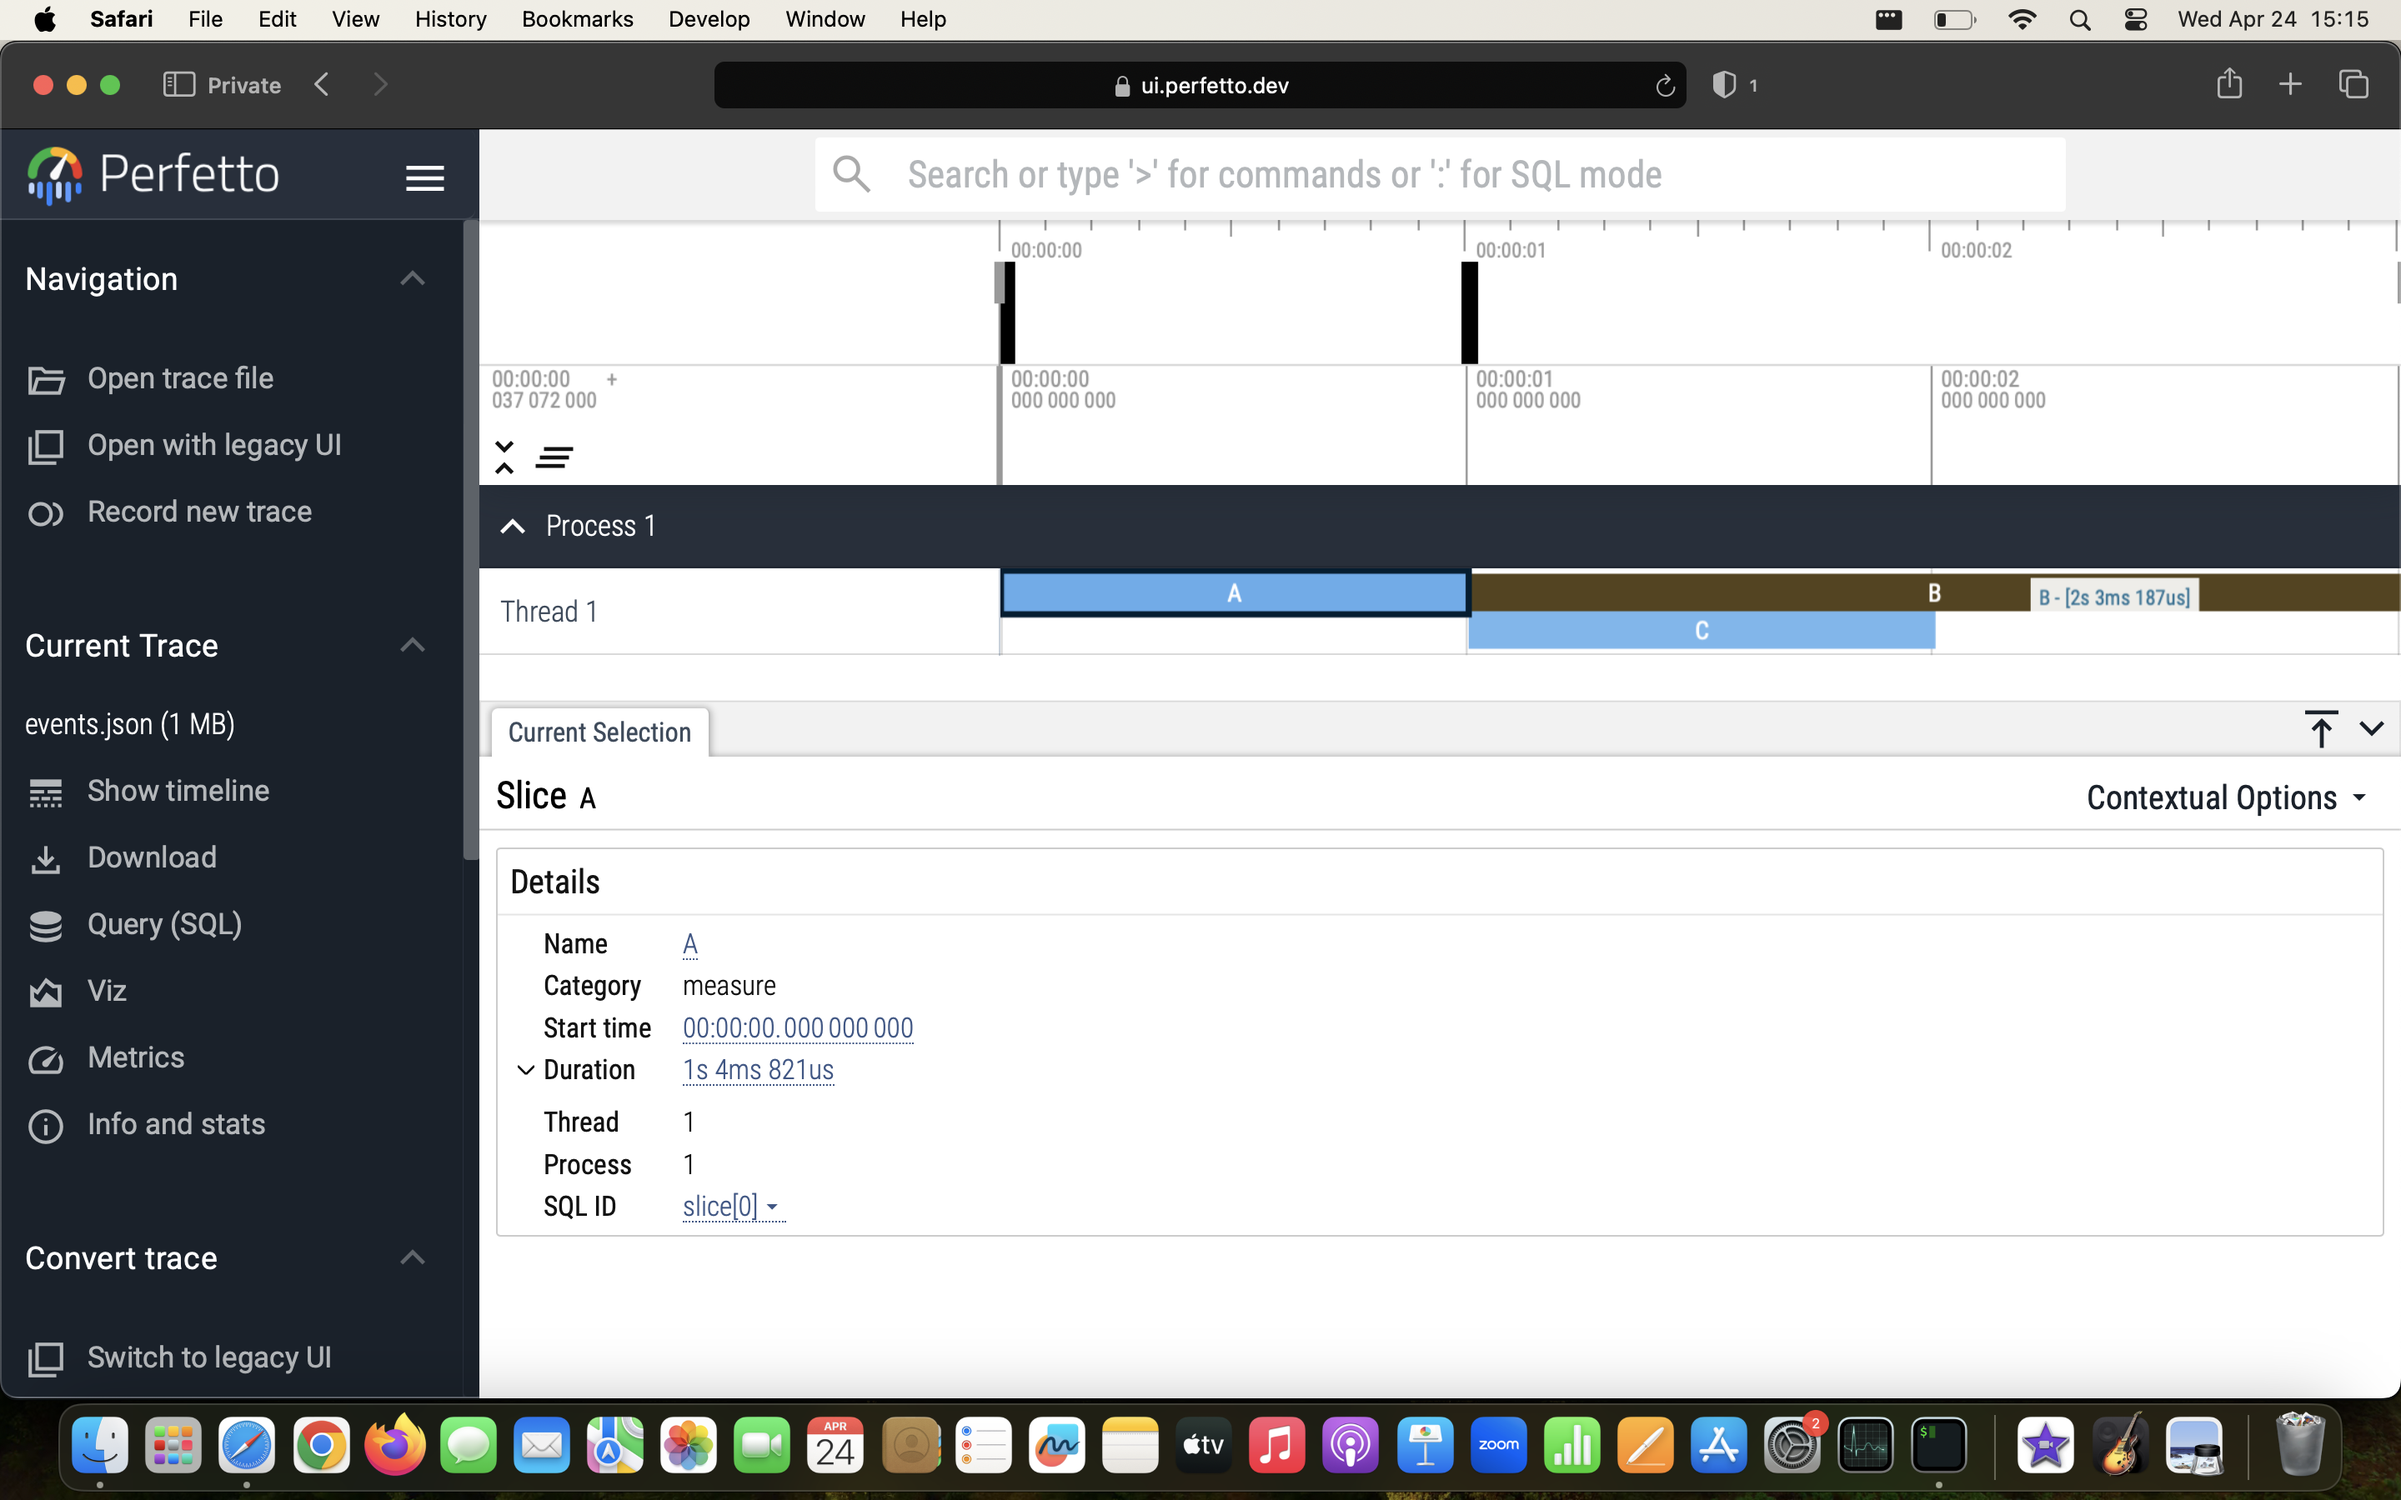
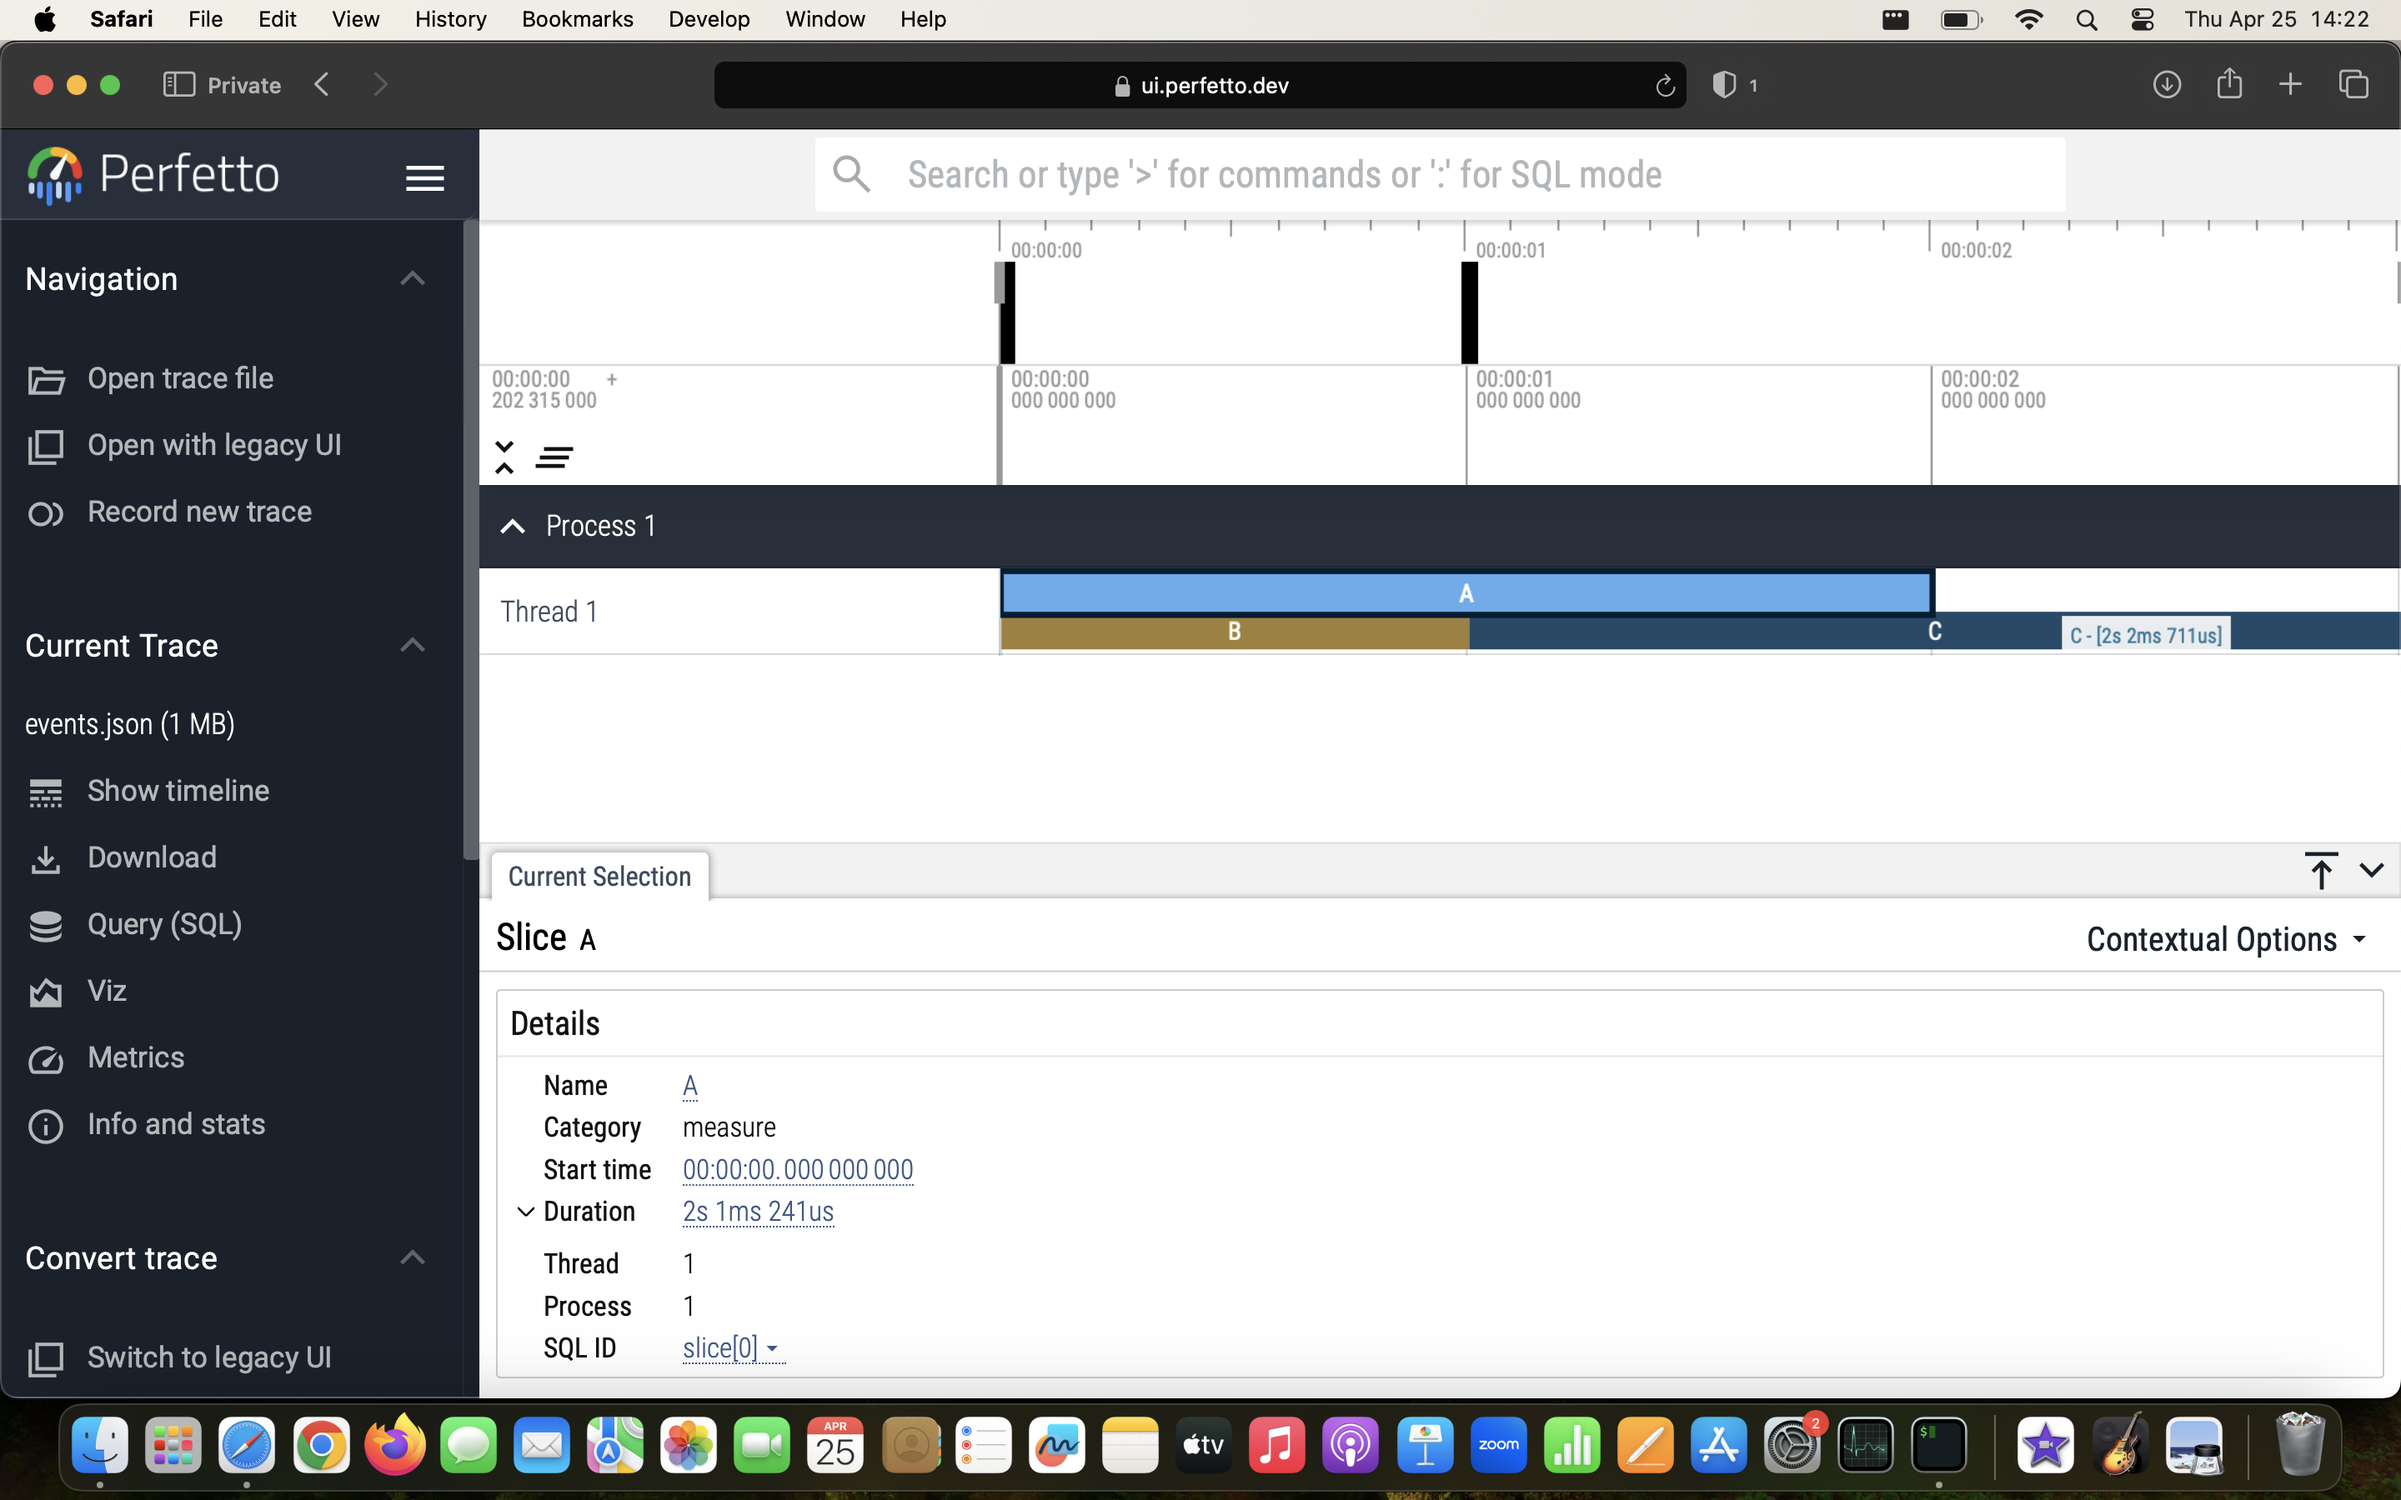
Fix interleaved events bug
Fixes: https://github.com/RaisinTen/perftrace/issues/1

diff --git a/test/test.js b/test/test.js
@@ -1,0 +1,67 @@
+const { ok } = require("node:assert");
+const { TraceEvents } = require("..");
+const { after, before, describe, test } = require("node:test");
+const { performance } = require("node:perf_hooks");
+
+describe("interleaved events", async () => {
+  let traceEvents;
+
+  await before(async () => {
+    return new Promise((resolve, reject) => {
+      setTimeout(() => {
+        resolve();
+      }, 4000);
+
+      traceEvents = new TraceEvents();
+
+      performance.mark("A");
+      setTimeout(() => {
+        performance.measure("A", "A");    // 2s [0s - 2s]
+      }, 2000);
+
+      performance.mark("B");
+      setTimeout(() => {
+        performance.measure("B", "B");    // 1s [0s - 1s]
+        performance.mark("C");
+        setTimeout(() => {
+          performance.measure("C", "C");  // 2s [1s - 3s]
+        }, 2000);
+      }, 1000);
+    });
+  });
+
+  let A, B, C;
+  test("find events", () => {
+    const events = traceEvents.getEvents();
+    A = events.find((element) => element.name === "A");
+    B = events.find((element) => element.name === "B");
+    C = events.find((element) => element.name === "C");
+    ok(A);
+    ok(B);
+    ok(C);
+  });
+
+  test("event ts values", () => {
+    ok((A.ts / 1e6) >= 0);
+
+    ok((B.ts / 1e6) >= 0);
+
+    ok((C.ts / 1e6) >= 0.9);
+    ok((C.ts / 1e6) <= 1.1);
+  });
+
+  test("event dur values", () => {
+    ok((A.dur / 1e6) >= 1.9);
+    ok((A.dur / 1e6) <= 2.1);
+
+    ok((B.dur / 1e6) >= 0.9);
+    ok((B.dur / 1e6) <= 1.1);
+
+    ok((C.dur / 1e6) >= 1.9);
+    ok((C.dur / 1e6) <= 2.1);
+  });
+
+  after(() => {
+    traceEvents.destroy();
+  });
+});

diff --git a/example.js b/example.js
@@ -13,15 +13,14 @@ process.on("beforeExit", () => {
 
 performance.mark("A");
 setTimeout(() => {
-  performance.measure("A", "A"); // 0s - 1s
+  performance.measure("A", "A");    // 2s [0s - 2s]
+}, 2000);
 
-  performance.mark("B");
-  setTimeout(() => {
-    performance.measure("B", "B"); // 1s - 3s
-  }, 2000);
-
+performance.mark("B");
+setTimeout(() => {
+  performance.measure("B", "B");    // 1s [0s - 1s]
   performance.mark("C");
   setTimeout(() => {
-    performance.measure("C", "C"); // 1s - 2s
-  }, 1000);
+    performance.measure("C", "C");  // 2s [1s - 3s]
+  }, 2000);
 }, 1000);

diff --git a/index.js b/index.js
@@ -12,15 +12,10 @@ class TraceEvents {
         this._eventObjects.push({
           name: measure.name,
           cat: measure.entryType,
-          ph: "B",
+          ph: "X",
           pid: 1,
           ts: Math.round(measure.startTime * 1000),
-        });
-        this._eventObjects.push({
-          cat: measure.entryType,
-          ph: "E",
-          pid: 1,
-          ts: Math.round((measure.startTime + measure.duration) * 1000),
+          dur: Math.round(measure.duration * 1000),
         });
       });
     });
